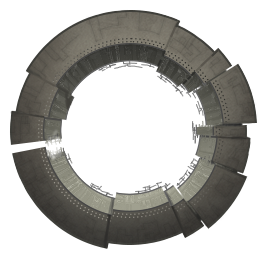
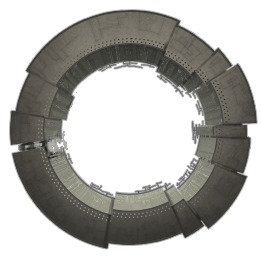
Oasis habitat ring rotation perfected.

diff --git a/data/scripts/plugins/TheNomadsHabitatRingRotationEffect.java b/data/scripts/plugins/TheNomadsHabitatRingRotationEffect.java
@@ -1,0 +1,26 @@
+package data.scripts.plugins;
+import com.fs.starfarer.api.combat.CombatEngineAPI;
+import com.fs.starfarer.api.combat.EveryFrameWeaponEffectPlugin;
+import com.fs.starfarer.api.combat.WeaponAPI;
+
+public class TheNomadsHabitatRingRotationEffect implements EveryFrameWeaponEffectPlugin
+{
+	private float direction = 1.0f; // always counter-clockwise
+	private float degrees_per_second = 2.4f; // 144 degrees per minute, 2.5 minutes per full rotation
+	private float angle = 0.0f; // habitat ring is completely independent of ship
+	
+	public void advance( float amount, CombatEngineAPI engine, WeaponAPI weapon )
+	{
+		if( engine.isPaused() ) return;
+		if( weapon.getShip().isHulk() ) return;
+		
+		angle = normalizeAngle( angle + (amount * direction * degrees_per_second) );
+		// habitat ring rotates at a fixed rate
+		weapon.setCurrAngle( angle );
+	}
+	
+	public static float normalizeAngle( float angleDeg )
+	{
+		return (angleDeg % 360f + 360f) % 360f;
+	}
+}

diff --git a/data/scripts/TheNomadsModPlugin.java b/data/scripts/TheNomadsModPlugin.java
@@ -2,8 +2,9 @@ package data.scripts;
 import com.fs.starfarer.api.BaseModPlugin;
 import com.fs.starfarer.api.Global;
 import com.fs.starfarer.api.campaign.SectorAPI;
-import data.scripts.nom.world.Nur;
-// import data.scripts.nom.plugins.TheNomadsCharacterCreationPlugin;
+import data.scripts.world.TheNomadsNur;
+import data.scripts.plugins.TheNomadsHabitatRingRotationEffect;
+// import data.scripts.plugins.TheNomadsCharacterCreationPlugin;
 
 public class TheNomadsModPlugin extends BaseModPlugin
 {
@@ -16,6 +17,6 @@ public class TheNomadsModPlugin extends BaseModPlugin
 	private static void init()
 	{
 		SectorAPI sector = Global.getSector();
-		new Nur().generate( sector );
+		new TheNomadsNur().generate( sector );
 	}
 }

diff --git a/data/scripts/world/TheNomadsNur.java b/data/scripts/world/TheNomadsNur.java
@@ -1,5 +1,5 @@
-package data.scripts.nom.world;
-import com.fs.starfarer.api.*;
+package data.scripts.world;
+import com.fs.starfarer.api.Global;
 import com.fs.starfarer.api.campaign.LocationAPI;
 import com.fs.starfarer.api.campaign.PlanetAPI;
 import com.fs.starfarer.api.campaign.SectorAPI;
@@ -7,7 +7,7 @@ import com.fs.starfarer.api.campaign.StarSystemAPI;
 import java.awt.Color;
 
 @SuppressWarnings( "unchecked" )
-public class Nur
+public class TheNomadsNur
 {
 	public void generate(SectorAPI sector)
 	{

diff --git a/data/scripts/plugins/TheNomadsCharacterCreationPlugin.java b/data/scripts/plugins/TheNomadsCharacterCreationPlugin.java
@@ -1,4 +1,4 @@
-package data.scripts.nom.plugins;
+package data.scripts.plugins;
 import com.fs.starfarer.api.Global;
 import com.fs.starfarer.api.campaign.CargoAPI.CrewXPLevel;
 import com.fs.starfarer.api.characters.CharacterCreationPlugin;
@@ -10,7 +10,6 @@ import java.util.List;
 
 public class TheNomadsCharacterCreationPlugin implements CharacterCreationPlugin
 {
-	
 	public static class ResponseImpl implements Response
 	{
 		private String text;
